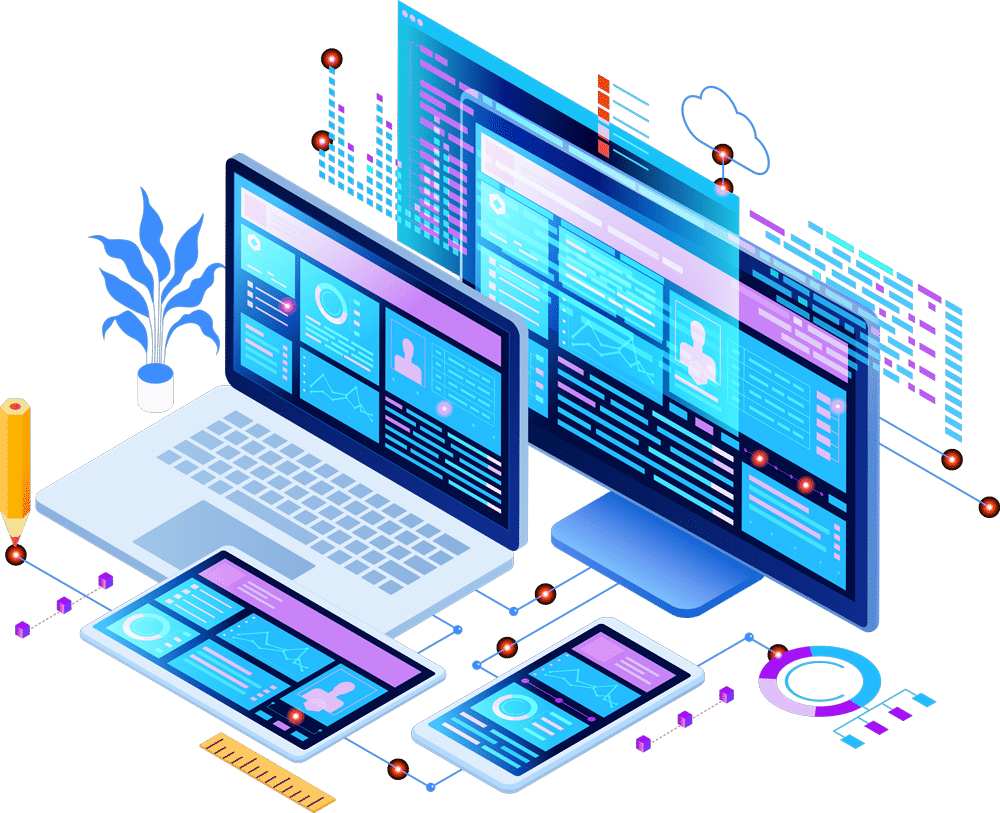
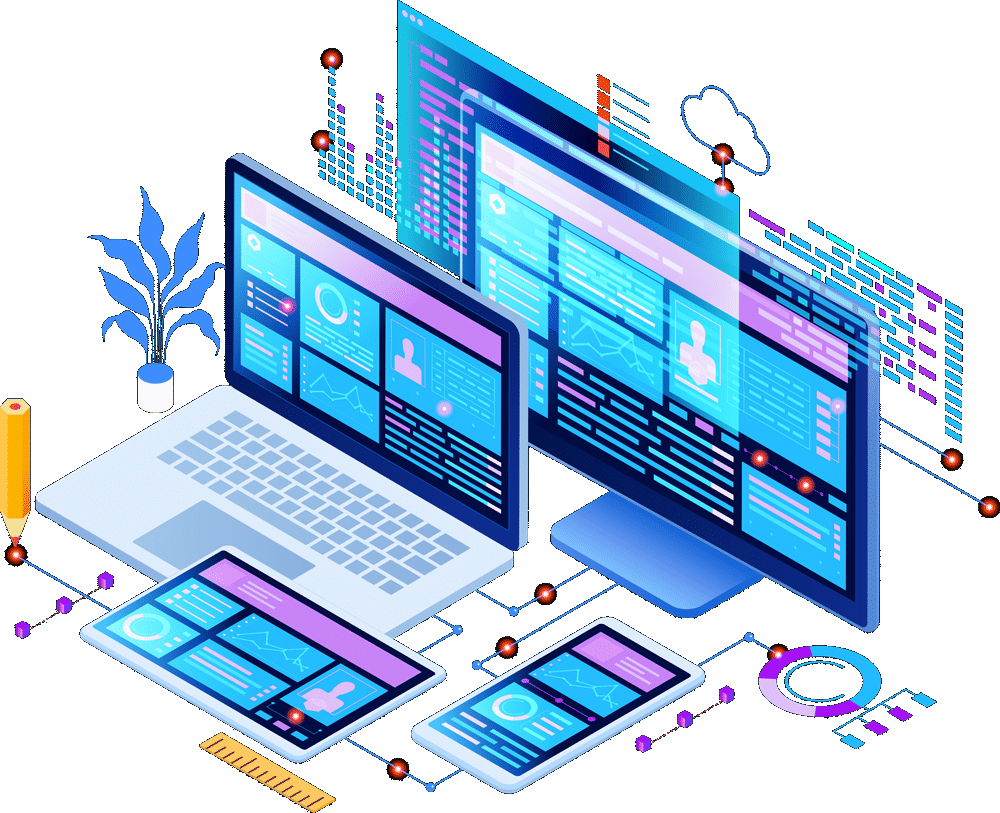
all the done

diff --git a/css/style.css b/css/style.css
@@ -361,6 +361,12 @@ b {
 }
 
 .gradient-bg {
+    /*background: linear-gradient(75deg, #093986 10%, #093986) !important;*/
+    background: url(../img/main-banner1.jpg);
+    background-repeat: no-repeat;
+}
+
+.gradient-bg2 {
     background: linear-gradient(75deg, #093986 10%, #093986) !important;
 }
 
@@ -496,19 +502,19 @@ a:hover {
 }
 
 .secondary-solid-btn3 {
-    color: #F39614;
+    color: #ffffff;
     font-size: 18px;
     padding: 12px 17px;
-    background: transparent !important;
-    border: 1px solid #F39614;
+    background: #307e03 !important;
+    border: 1px solid #020202;
 }
 
 .secondary-solid-btn3:hover {
     background: transparent !important;
-    color: #ffffff;
+    color: #000000;
     -webkit-box-shadow: none;
     box-shadow: none;
-    border: 1px solid #ffffff;
+    border: 1px solid #000000;
 }
 
 .secondary-outline-btn {

diff --git a/index.php b/index.php
@@ -82,10 +82,11 @@
             <div class="container">
                 <div class="row align-items-center">
                     <div class="col-md-12 col-lg-5">
-                        <div class="hero-slider-content text-white pt-5">
+                        <div class="hero-slider-content text-black pt-5">
                             <strong>Website & Software Development</strong>
-                            <h1 class="text-white">Peindia Banking Platform Buy Unlimited Banking Services</h1>
-                            <p class="lead">Grow your bussiness online and make it visible globally. Launch your website with elegant design in wallet friendly price. </p>
+                            <h1 class="text-black">Peindia Banking Platform Buy Unlimited Banking Services</h1>
+                            <p class="lead">Grow your bussiness online and make it visible globally.
+                                 Launch your website with elegant design in wallet friendly price. </p>
 
                             <div class="action-btns mt-3">
                                 <a href="onlineRegis.php" class="btn secondary-solid-btn3">Online Registration Form</a> 
@@ -95,7 +96,7 @@
                     </div>
                     <div class="col-md-12 col-lg-7">
                         <div class="image-wrap pt-5">
-                            <img src="img/Banner/restapi11.png" class="img-fluid custom-width" sizes="12px*12px" alt="hero" />
+                            <img src="img/Banner/restapi200.png" class="img-fluid custom-width" sizes="10px*12px" alt="hero" />
                         </div>
                     </div>
                 </div>

diff --git a/pages/footer.php b/pages/footer.php
@@ -1,7 +1,7 @@
 <!--footer section start-->
 <footer class="footer-section">
     <!--footer top start-->
-    <div class="footer-top gradient-bg">
+    <div class="footer-top gradient-bg2">
         <div class="container">
             <div class="row">
                 <div class="col-sm-12 col-md-12 col-lg-9">
